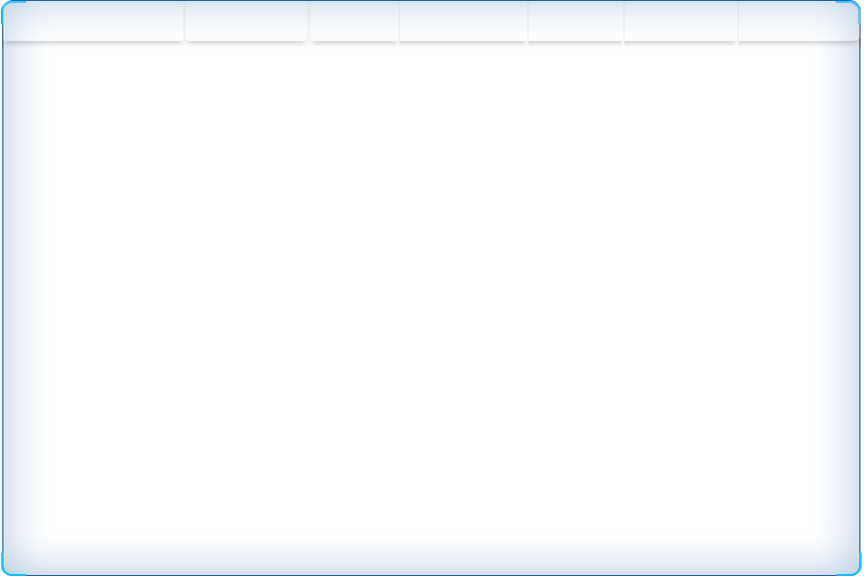
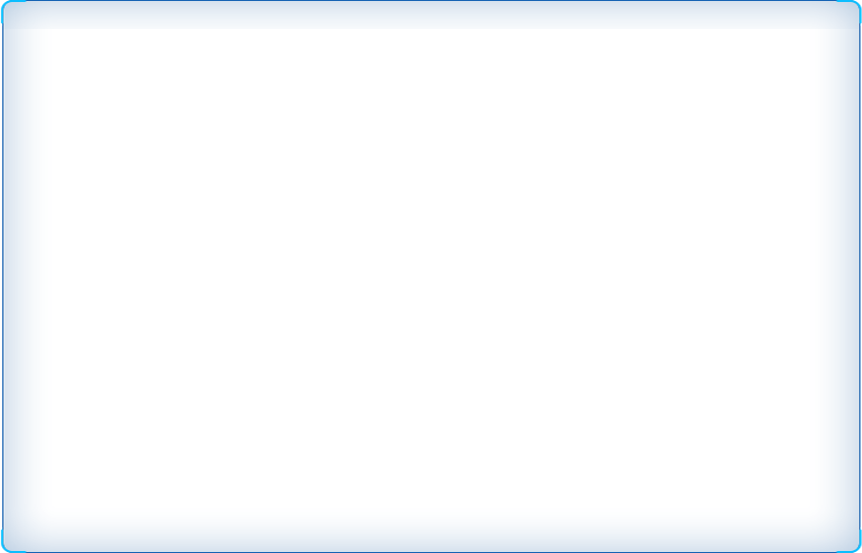
静态页面

Changed region(s): [[0.0, 0.0, 1.0, 1.0], [0.0, 0.0, 0.0302, 0.0307]]

diff --git a/src/main/resources/static/js/comprehensive/community.js b/src/main/resources/static/js/comprehensive/community.js
@@ -1,0 +1,55 @@
+
+$(function(){
+
+
+
+    $("#selectID").change(function(){
+       echartses()
+    })
+
+    function convertUnitChartData(data, eventId, isRate) {
+        var edata = data[eventId],
+            max = 0,
+            unit = [],
+            values = [];
+        edata && edata.forEach(function(item) {
+            var r = isRate ? getRateNum(item) : item.count;
+            max = Math.max(r, max);
+            values.push(r);
+            unit.push(item.unitName);
+        });
+        return {
+            max: max,
+            unit: unit,
+            values: values
+        }
+    }
+
+    //指定图标的配置和数据
+    // 21001 综合健康管理服务包签约率（收费）
+       var arr = {
+           eventIds:'21021,21022,21023,21024,21025,21026,21027,21028,21029'
+       }
+
+
+      $.ajax({
+       type : "post",    //请求类型
+        url : "/qos/analysis/data/get/unit",//请求的 URL地址
+        data:arr,
+        success: function (rawData) {
+           rawData = rawData.result;
+           dataMap['21021']=convertUnitChartData(rawData, '21021', true)
+           dataMap['21022']=convertUnitChartData(rawData, '21022', true)
+           dataMap['21023']=convertUnitChartData(rawData, '21023', true)
+           dataMap['21024']=convertUnitChartData(rawData, '21024', true)
+           dataMap['21025']=convertUnitChartData(rawData, '21025', true)
+           dataMap['21026']=convertUnitChartData(rawData, '21026', true)
+           dataMap['21027']=convertUnitChartData(rawData, '21027', true)
+           dataMap['21028']=convertUnitChartData(rawData, '21028', true)
+           dataMap['21029']=convertUnitChartData(rawData, '21029', true)
+           echartses()
+
+         }
+    });
+
+})

diff --git a/src/main/resources/templates/qos/homepage/familydoctor/index.html b/src/main/resources/templates/qos/homepage/familydoctor/index.html
@@ -171,29 +171,21 @@
 
 
             <div class="roll">
-                <div class="header header_bg doctorheader">
+                <div class="header header_bg doctorheader rollheader">
                     <span class="doctor_unitName">
-                        <select>
-                            <option>社区名称</option>
-                        </select>
+                        社区名称
                     </span>
                     <span class="doctor_teamName">团队名称</span>
                     <span class="doctor_names">姓名</span>
                     <span class="doctor_ages">年龄</span>
                     <span class="doctor_jobRank">
-                        <select>
-                            <option>职位</option>
-                        </select>
+                        职位
                     </span>
                     <span class="doctor_personnelCategory">
-                        <select>
-                            <option>工作岗位</option>
-                        </select>
+                       工作岗位
                     </span>
                     <span class="doctor_isTeamCaptain">
-                        <select>
-                            <option>是否团队长</option>
-                        </select>
+                      是否团队长
                     </span>
                 </div>
                 <div id="box">

diff --git a/src/main/resources/static/js/familydoctor/sociologyName.js b/src/main/resources/static/js/familydoctor/sociologyName.js
@@ -3,9 +3,7 @@ $(function(){
          type : "post",    //请求类型
         url : "/qos/family/doctor/personnel/find/all",//请求的 URL地址
         success: function (res) {
-
-
-    /*
+           /*
                 age: 29
                 id: "126ca9ba92bb4f51bc3d02523b21a300"
                 isTeamCaptain: 1  //  是否团队  1是 0否
@@ -16,9 +14,7 @@ $(function(){
                 teamName: "北区团队"
                 unitId: "320583107467170500"
                 unitName: "周庄社区卫生服务中心"
-
-
-        */
+         */
           var data = res.result;
           var html = "";
           $.each(data, function(i, item) { //这里的函数参数是键值对的形式，k代表键名，v代表值
@@ -32,6 +28,17 @@ $(function(){
               html += '<span  class="doctor_isTeamCaptain">'+item.isTeamCaptain+'</span>';
              });
            $("#list1").append(html);
+
+
+           $(".doctor_isTeamCaptain").each(function(index,data){
+                var doctor_isTeamCaptain=$(".doctor_isTeamCaptain").eq(index).text();
+                if(doctor_isTeamCaptain==0){
+                      $(".doctor_isTeamCaptain").eq(index).text('女')
+                }
+                if(doctor_isTeamCaptain==1){
+                      $(".doctor_isTeamCaptain").eq(index).text('男')
+               }
+            })
 
         }
     });

diff --git a/src/main/resources/templates/qos/homepage/index.html b/src/main/resources/templates/qos/homepage/index.html
@@ -18,7 +18,7 @@
         <div class="middle">
             <span class="text-00e4ff">昆山市医疗服务综合质量展示&nbsp;&nbsp;&nbsp;&nbsp;/</span>
             <span class="text-00B4FF">&nbsp;&nbsp;&nbsp;&nbsp;昆山市社区卫生服务综合质量展示&nbsp;&nbsp;&nbsp;&nbsp;/</span>
-            <span class="text-00B4FF">&nbsp;&nbsp;&nbsp;&nbsp;昆山市学校及疫情数据质量展示</span>
+           <!-- <span class="text-00B4FF">&nbsp;&nbsp;&nbsp;&nbsp;昆山市学校及疫情数据质量展示</span>-->
         </div>
         <div class='right'>
             <span class="text-00B4FF"><i class="circle">•</i>社区医疗&nbsp;&nbsp;&nbsp;&nbsp;</span>
@@ -122,6 +122,7 @@
     <script type="text/javascript" src="/static/js/comprehensive/outpatient.js"></script>
     <script type="text/javascript" src="/static/js/comprehensive/familydoctor.js"></script>
     <script type="text/javascript" src="/static/js/comprehensive/permanent.js"></script><!--常驻-->
+    <script type="text/javascript" src="/static/js/comprehensive/community.js"></script><!--本月总门急诊人等-->
 </body>
 
 <script>

diff --git a/src/main/resources/templates/qos/homepage/publichealth/index.html b/src/main/resources/templates/qos/homepage/publichealth/index.html
@@ -16,7 +16,7 @@
 	    <div class="middle">
 		     <span class="text-00e4ff">昆山市医疗服务综合质量展示&nbsp;&nbsp;&nbsp;&nbsp;/</span>
 		     <span class="text-00B4FF">&nbsp;&nbsp;&nbsp;&nbsp;昆山市社区卫生服务综合质量展示&nbsp;&nbsp;&nbsp;&nbsp;/</span>
-		     <span class="text-00B4FF">&nbsp;&nbsp;&nbsp;&nbsp;昆山市学校及疫情数据质量展示</span>
+		     <!--<span class="text-00B4FF">&nbsp;&nbsp;&nbsp;&nbsp;昆山市学校及疫情数据质量展示</span>-->
 	     </div>
 	     <div class='right'>
 	     	 <span class="text-00B4FF"><i class="circle">•</i>社区医疗&nbsp;&nbsp;&nbsp;&nbsp;</span>

diff --git a/src/main/resources/static/css/doctor.css b/src/main/resources/static/css/doctor.css
@@ -41,7 +41,7 @@
 
 
 .carousel-inner{
-  height:40vh;
+  height:37vh!important;
 }
 
 #middle{
@@ -112,8 +112,12 @@
   text-align:center;
 }
 
-
 .roll{
-  background:url('../../static/image/index/doctor/kuang.png') no-repeat !important
+  background:url('../../static/image/index/kuang.png') no-repeat!important;
+  background-size: 100% 100%!important;
+  height:42vh!important;
+}
 
+.rollheader{
+  background:none!important;
 }
